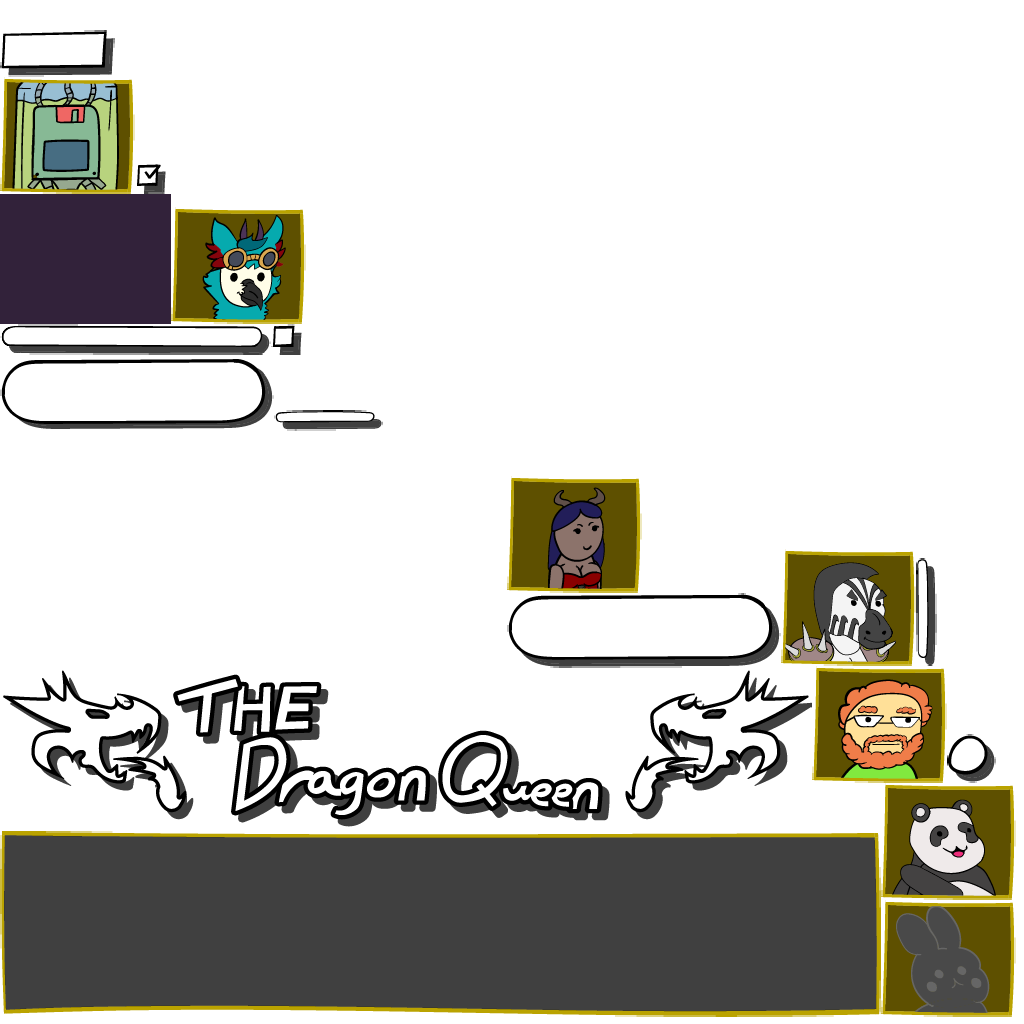
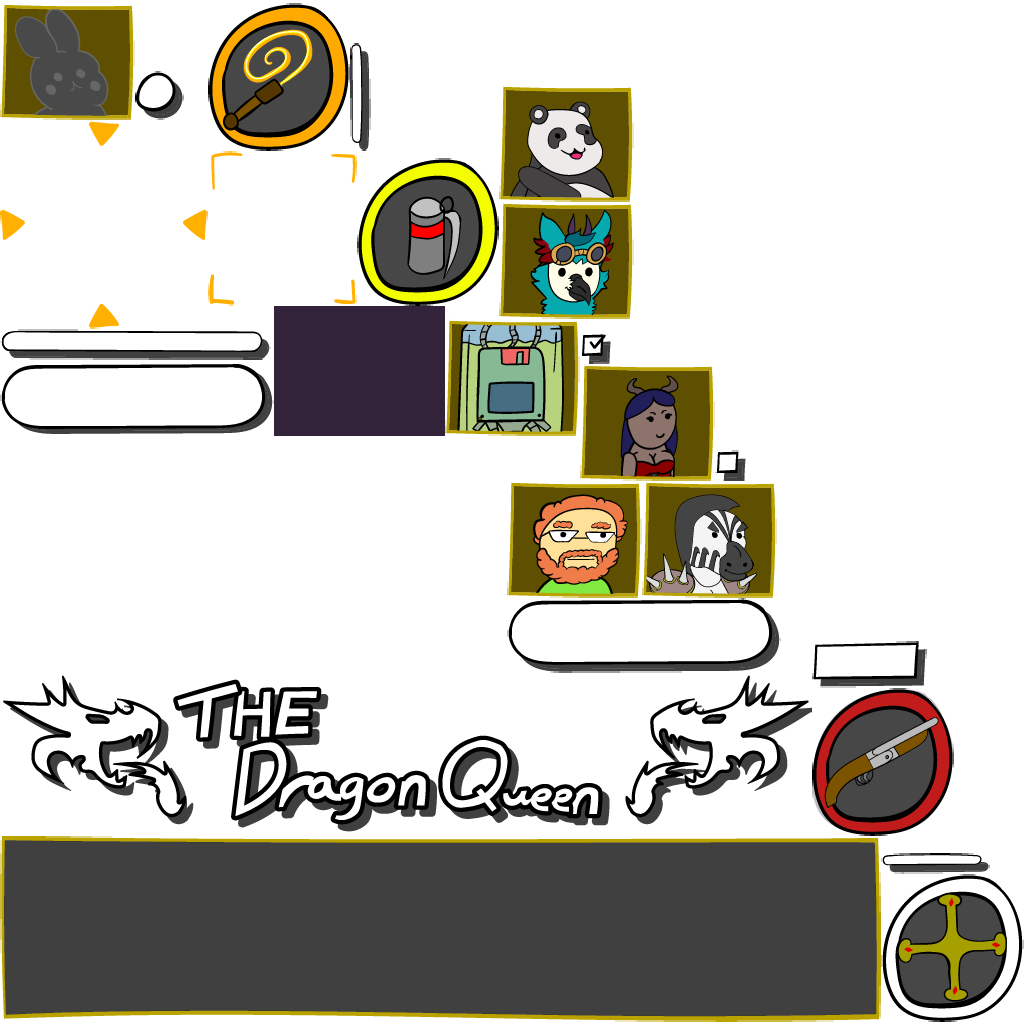
Added weapon selection.

diff --git a/core/src/main/java/com/ray3k/template/screens/GameScreen.java b/core/src/main/java/com/ray3k/template/screens/GameScreen.java
@@ -6,19 +6,25 @@ import com.badlogic.gdx.InputMultiplexer;
 import com.badlogic.gdx.graphics.Color;
 import com.badlogic.gdx.graphics.GL20;
 import com.badlogic.gdx.graphics.OrthographicCamera;
-import com.badlogic.gdx.scenes.scene2d.InputEvent;
-import com.badlogic.gdx.scenes.scene2d.InputListener;
-import com.badlogic.gdx.scenes.scene2d.Stage;
+import com.badlogic.gdx.math.Interpolation;
+import com.badlogic.gdx.math.Vector2;
+import com.badlogic.gdx.scenes.scene2d.*;
+import com.badlogic.gdx.scenes.scene2d.actions.Actions;
+import com.badlogic.gdx.scenes.scene2d.actions.TemporalAction;
+import com.badlogic.gdx.scenes.scene2d.ui.Image;
 import com.badlogic.gdx.scenes.scene2d.ui.Label;
+import com.badlogic.gdx.scenes.scene2d.ui.Stack;
 import com.badlogic.gdx.scenes.scene2d.ui.Table;
 import com.badlogic.gdx.utils.Align;
 import com.badlogic.gdx.utils.Array;
 import com.badlogic.gdx.utils.ObjectMap;
 import com.badlogic.gdx.utils.viewport.FitViewport;
 import com.badlogic.gdx.utils.viewport.ScreenViewport;
+import com.ray3k.stripe.PopTable;
 import com.ray3k.template.*;
 import com.ray3k.template.OgmoReader.*;
 import com.ray3k.template.entities.*;
+import com.ray3k.template.entities.PlayerEntity.*;
 import com.ray3k.template.screens.DialogDebug.*;
 import com.ray3k.template.screens.DialogPause.*;
 import space.earlygrey.shapedrawer.ShapeDrawer;
@@ -32,6 +38,7 @@ public class GameScreen extends JamScreen {
     public Stage stage;
     public boolean paused;
     private Label fpsLabel;
+    public Action slowAction;
     
     @Override
     public void show() {
@@ -165,11 +172,136 @@ public class GameScreen extends JamScreen {
         ogmoReader.readFile(Gdx.files.internal("levels/" + name + ".json"));
     }
     
+    private final static Vector2 temp = new Vector2();
+    
+    public void showInventory() {
+        if (slowAction != null) stage.getRoot().removeAction(slowAction);
+        slowAction = new TemporalAction(.5f, Interpolation.smooth) {
+            @Override
+            protected void update(float percent) {
+                deltaMultiplier = (1 - percent) *  (1 - .05f) + .05f;
+            }
+        };
+        stage.addAction(slowAction);
+        var selectionImage = new Image(skin.getDrawable("powerup-selection"));
+        var whipImage = new Image(skin.getDrawable("powerup-whip"));
+        var shotgunImage = new Image(skin.getDrawable("powerup-shotgun"));
+        var grenadeImage = new Image(skin.getDrawable("powerup-grenade"));
+        var crossImage = new Image(skin.getDrawable("powerup-cross"));
+        
+        var popTable = new PopTable() {
+            float hideTimer;
+            boolean stopInput;
+            @Override
+            public void act(float delta) {
+                super.act(delta);
+                
+                if (!stopInput) {
+                    if (PlayerEntity.enabledWeapons.contains(Weapon.WHIP, false) && isBindingJustPressed(Binding.JUMP)) {
+                        temp.set(whipImage.getX(Align.center) - selectionImage.getWidth() / 2,
+                                whipImage.getY(Align.center) - selectionImage.getHeight() / 2);
+                        whipImage.localToActorCoordinates(this, temp);
+                        selectionImage.addAction(Actions.moveTo(temp.x, temp.y, .2f, Interpolation.smooth));
+                        hideTimer = .1f;
+                        PlayerEntity.player.weapon = Weapon.WHIP;
+                    } else if (PlayerEntity.enabledWeapons.contains(Weapon.SHOTGUN, false) && isBindingJustPressed(Binding.LEFT)) {
+                        temp.set(shotgunImage.getX(Align.center) - selectionImage.getWidth() / 2,
+                                shotgunImage.getY(Align.center) - selectionImage.getHeight() / 2);
+                        shotgunImage.localToActorCoordinates(this, temp);
+                        selectionImage.addAction(Actions.moveTo(temp.x, temp.y, .2f, Interpolation.smooth));
+                        hideTimer = .1f;
+                        PlayerEntity.player.weapon = Weapon.SHOTGUN;
+                    } else if (PlayerEntity.enabledWeapons.contains(Weapon.GRENADE, false) && isBindingJustPressed(Binding.RIGHT)) {
+                        temp.set(grenadeImage.getX(Align.center) - selectionImage.getWidth() / 2,
+                                grenadeImage.getY(Align.center) - selectionImage.getHeight() / 2);
+                        grenadeImage.localToActorCoordinates(this, temp);
+                        selectionImage.addAction(Actions.moveTo(temp.x, temp.y, .2f, Interpolation.smooth));
+                        hideTimer = .1f;
+                        PlayerEntity.player.weapon = Weapon.GRENADE;
+                    } else if (PlayerEntity.enabledWeapons.contains(Weapon.CROSS, false) && isBindingJustPressed(Binding.DOWN)) {
+                        temp.set(crossImage.getX(Align.center) - selectionImage.getWidth() / 2,
+                                crossImage.getY(Align.center) - selectionImage.getHeight() / 2);
+                        crossImage.localToActorCoordinates(this, temp);
+                        selectionImage.addAction(Actions.moveTo(temp.x, temp.y, .2f, Interpolation.smooth));
+                        hideTimer = .1f;
+                        PlayerEntity.player.weapon = Weapon.CROSS;
+                    }
+    
+                    if (isBindingPressed(Binding.INVENTORY)) {
+                        hideTimer = .1f;
+                    }
+                }
+                
+                if (hideTimer > 0) {
+                    hideTimer -= delta;
+                    if (hideTimer < 0) {
+                        stopInput = true;
+                        hide();
+                        PlayerEntity.player.selectingWeapon = false;
+                        if (slowAction != null) stage.getRoot().removeAction(slowAction);
+                        slowAction = Actions.sequence(new TemporalAction(1f, Interpolation.smooth) {
+                            @Override
+                            protected void update(float percent) {
+                                deltaMultiplier = percent *  (1 - .05f) + .05f;
+                            }
+                        });
+                        stage.addAction(slowAction);
+                    }
+                }
+            }
+        };
+        popTable.setKeepCenteredInWindow(true);
+        
+        popTable.defaults().uniform().space(30);
+        
+        var stack = new Stack();
+        if (PlayerEntity.enabledWeapons.contains(Weapon.WHIP, false)) stack.add(whipImage);
+        popTable.add(stack).colspan(3);
+        if (PlayerEntity.player.weapon == Weapon.WHIP) {
+            var image = new Image(skin.getDrawable("powerup-selected"));
+            stack.add(image);
+        }
+        
+        popTable.row();
+        stack = new Stack();
+        if (PlayerEntity.enabledWeapons.contains(Weapon.SHOTGUN, false)) stack.add(shotgunImage);
+        popTable.add(stack);
+        if (PlayerEntity.player.weapon == Weapon.SHOTGUN) {
+            var image = new Image(skin.getDrawable("powerup-selected"));
+            stack.add(image);
+        }
+    
+        popTable.add();
+        
+        stack = new Stack();
+        if (PlayerEntity.enabledWeapons.contains(Weapon.GRENADE, false)) stack.add(grenadeImage);
+        popTable.add(stack);
+        if (PlayerEntity.player.weapon == Weapon.GRENADE) {
+            var image = new Image(skin.getDrawable("powerup-selected"));
+            stack.add(image);
+        }
+        
+        popTable.row();
+        stack = new Stack();
+        if (PlayerEntity.enabledWeapons.contains(Weapon.CROSS, false)) stack.add(crossImage);
+        popTable.add(stack).colspan(3);
+        if (PlayerEntity.player.weapon == Weapon.CROSS) {
+            var image = new Image(skin.getDrawable("powerup-selected"));
+            stack.add(image);
+        }
+        
+        popTable.show(stage);
+        
+        selectionImage.setPosition(popTable.getWidth() / 2, popTable.getHeight() / 2, Align.center);
+        popTable.addActor(selectionImage);
+        
+    }
+    
     @Override
     public void act(float delta) {
         if (!paused) {
-            entityController.act(delta);
-            vfxManager.update(delta);
+            entityController.act(delta * deltaMultiplier);
+            vfxManager.update(delta * deltaMultiplier);
         }
         stage.act(delta);
         

diff --git a/core/src/main/java/com/ray3k/template/entities/PlayerEntity.java b/core/src/main/java/com/ray3k/template/entities/PlayerEntity.java
@@ -1,27 +1,39 @@
 package com.ray3k.template.entities;
 
 import com.badlogic.gdx.graphics.Color;
+import com.badlogic.gdx.utils.Array;
 import com.dongbat.jbump.*;
 import com.dongbat.jbump.Response.Result;
 import com.ray3k.template.*;
 import com.ray3k.template.Resources.*;
+import com.ray3k.template.screens.*;
 
 import static com.ray3k.template.Core.Binding.*;
 import static com.ray3k.template.Core.*;
 import static com.ray3k.template.Resources.SpineDragonQueen.*;
 import static com.ray3k.template.Resources.Values.*;
+import static com.ray3k.template.entities.PlayerEntity.Weapon.*;
 
 public class PlayerEntity extends Entity {
+    public static PlayerEntity player;
+    public boolean selectingWeapon;
     private float jumpTime;
     private int jumps;
+    public Weapon weapon;
+    public static Array<Weapon> enabledWeapons = new Array<>();
+    public enum Weapon {
+        WHIP, GRENADE, SHOTGUN, CROSS
+    }
     
     @Override
     public void create() {
+        player = this;
         setSkeletonData(skeletonData, animationData);
         animationState.setAnimation(0, animationStand, true);
         animationData.setDefaultMix(.2f);
         setCollisionBox(skeleton.findSlot("bbox"), skeletonBounds, collisionFilter);
         gravityY = playerGravity;
+        weapon = WHIP;
     }
     
     @Override
@@ -33,14 +45,14 @@ public class PlayerEntity extends Entity {
     public void act(float delta) {
         boolean inAir = world.check(item, x, y - 1, collisionFilter).projectedCollisions.size() == 0;
         
-        if (isBindingPressed(LEFT)) {
+        if (!selectingWeapon && isBindingPressed(LEFT)) {
             if (deltaX > -playerMaxSpeed) {
                 deltaX -= (inAir ? playerAccelerationWhileJumping : playerAcceleration) * delta;
                 if (deltaX < -playerMaxSpeed) deltaX = -playerMaxSpeed;
             }
             if (!inAir && animationState.getCurrent(0).getAnimation() != animationRun) animationState.setAnimation(0, animationRun, true);
             skeleton.setScale(-1, 1);
-        } else if (isBindingPressed(RIGHT)) {
+        } else if (!selectingWeapon && isBindingPressed(RIGHT)) {
             if (deltaX < playerMaxSpeed) {
                 deltaX += (inAir ? playerAccelerationWhileJumping : playerAcceleration) * delta;
                 if (deltaX > playerMaxSpeed) deltaX = playerMaxSpeed;
@@ -51,8 +63,8 @@ public class PlayerEntity extends Entity {
             deltaX = Utils.approach(deltaX, 0, (inAir ? playerDecelerationWhileJumping : playerDeceleration) * delta);
             if (!inAir && animationState.getCurrent(0).getAnimation() != animationStand) animationState.setAnimation(0, animationStand, true);
         }
-
-        if ((!inAir || jumps < playerMaxJumps) && isBindingJustPressed(UP)) {
+        
+        if ((!inAir || jumps < playerMaxJumps) && !selectingWeapon && isBindingJustPressed(JUMP)) {
             jumpTime = 0;
             deltaY += playerJumpSpeed;
             animationState.setAnimation(0, animationJump, false);
@@ -64,7 +76,7 @@ public class PlayerEntity extends Entity {
         }
         
         if (inAir) {
-            if (isBindingPressed(UP)) {
+            if (!selectingWeapon && isBindingPressed(JUMP)) {
                 if (jumpTime < playerJumpHoldTime) {
                     if (deltaY < playerJumpSpeed) {
                         deltaY = playerJumpSpeed;
@@ -72,6 +84,11 @@ public class PlayerEntity extends Entity {
                 }
             }
             jumpTime += delta;
+        }
+        
+        if (!selectingWeapon && isBindingJustPressed(INVENTORY)) {
+            GameScreen.gameScreen.showInventory();
+            selectingWeapon = true;
         }
     }
     

diff --git a/core/src/main/java/com/ray3k/template/Core.java b/core/src/main/java/com/ray3k/template/Core.java
@@ -89,6 +89,7 @@ public class Core extends JamGame {
     public static VfxManager vfxManager;
     public static SceneComposerStageBuilder sceneBuilder;
     public static ShapeDrawer shapeDrawer;
+    public static float deltaMultiplier = 1f;
     
     public static boolean isKeyJustPressed(int key) {
         return key == Keys.ANY_KEY ? keysJustPressed.size > 0 : keysJustPressed.contains(key);
@@ -660,7 +661,7 @@ public class Core extends JamGame {
     }
     
     public enum Binding {
-        LEFT, RIGHT, UP, DOWN, SHOOT, SPECIAL, SHIELD;
+        LEFT, RIGHT, JUMP, DOWN, ATTACK, INVENTORY;
     }
     public static float bgm;
     public static float sfx;
@@ -669,7 +670,6 @@ public class Core extends JamGame {
     @Override
     public void create() {
         super.create();
-        var file = Gdx.files.internal("spine/libgdx.json");
         core = this;
         
         preferences = Gdx.app.getPreferences(PROJECT_NAME);
@@ -747,11 +747,10 @@ public class Core extends JamGame {
     public void setDefaultBindings() {
         addKeyBinding(Binding.LEFT, Keys.LEFT);
         addKeyBinding(Binding.RIGHT, Keys.RIGHT);
-        addKeyBinding(Binding.UP, Keys.UP);
+        addKeyBinding(Binding.JUMP, Keys.UP);
         addKeyBinding(Binding.DOWN, Keys.DOWN);
-        addKeyBinding(Binding.SHOOT, Keys.Z);
-        addKeyBinding(Binding.SHIELD, Keys.X);
-        addKeyBinding(Binding.SPECIAL, Keys.C);
+        addKeyBinding(Binding.ATTACK, Keys.Z);
+        addKeyBinding(Binding.INVENTORY, Keys.X);
     }
     
     public static class ControllerHandler implements ControllerListener {

diff --git a/core/src/main/java/com/ray3k/template/screens/MenuScreen.java b/core/src/main/java/com/ray3k/template/screens/MenuScreen.java
@@ -10,6 +10,8 @@ import com.badlogic.gdx.scenes.scene2d.ui.TextButton;
 import com.badlogic.gdx.scenes.scene2d.utils.ChangeListener;
 import com.badlogic.gdx.utils.viewport.ScreenViewport;
 import com.ray3k.template.*;
+import com.ray3k.template.entities.*;
+import com.ray3k.template.entities.PlayerEntity.*;
 
 import static com.ray3k.template.Core.*;
 import static com.ray3k.template.Resources.*;
@@ -39,6 +41,9 @@ public class MenuScreen extends JamScreen {
             @Override
             public void changed(ChangeEvent event, Actor actor) {
                 Gdx.input.setInputProcessor(null);
+                Values.playerMaxJumps = 1;
+                PlayerEntity.enabledWeapons.clear();
+                PlayerEntity.enabledWeapons.add(Weapon.WHIP);
                 bgm.stop();
                 core.transition(new GameScreen());
             }
